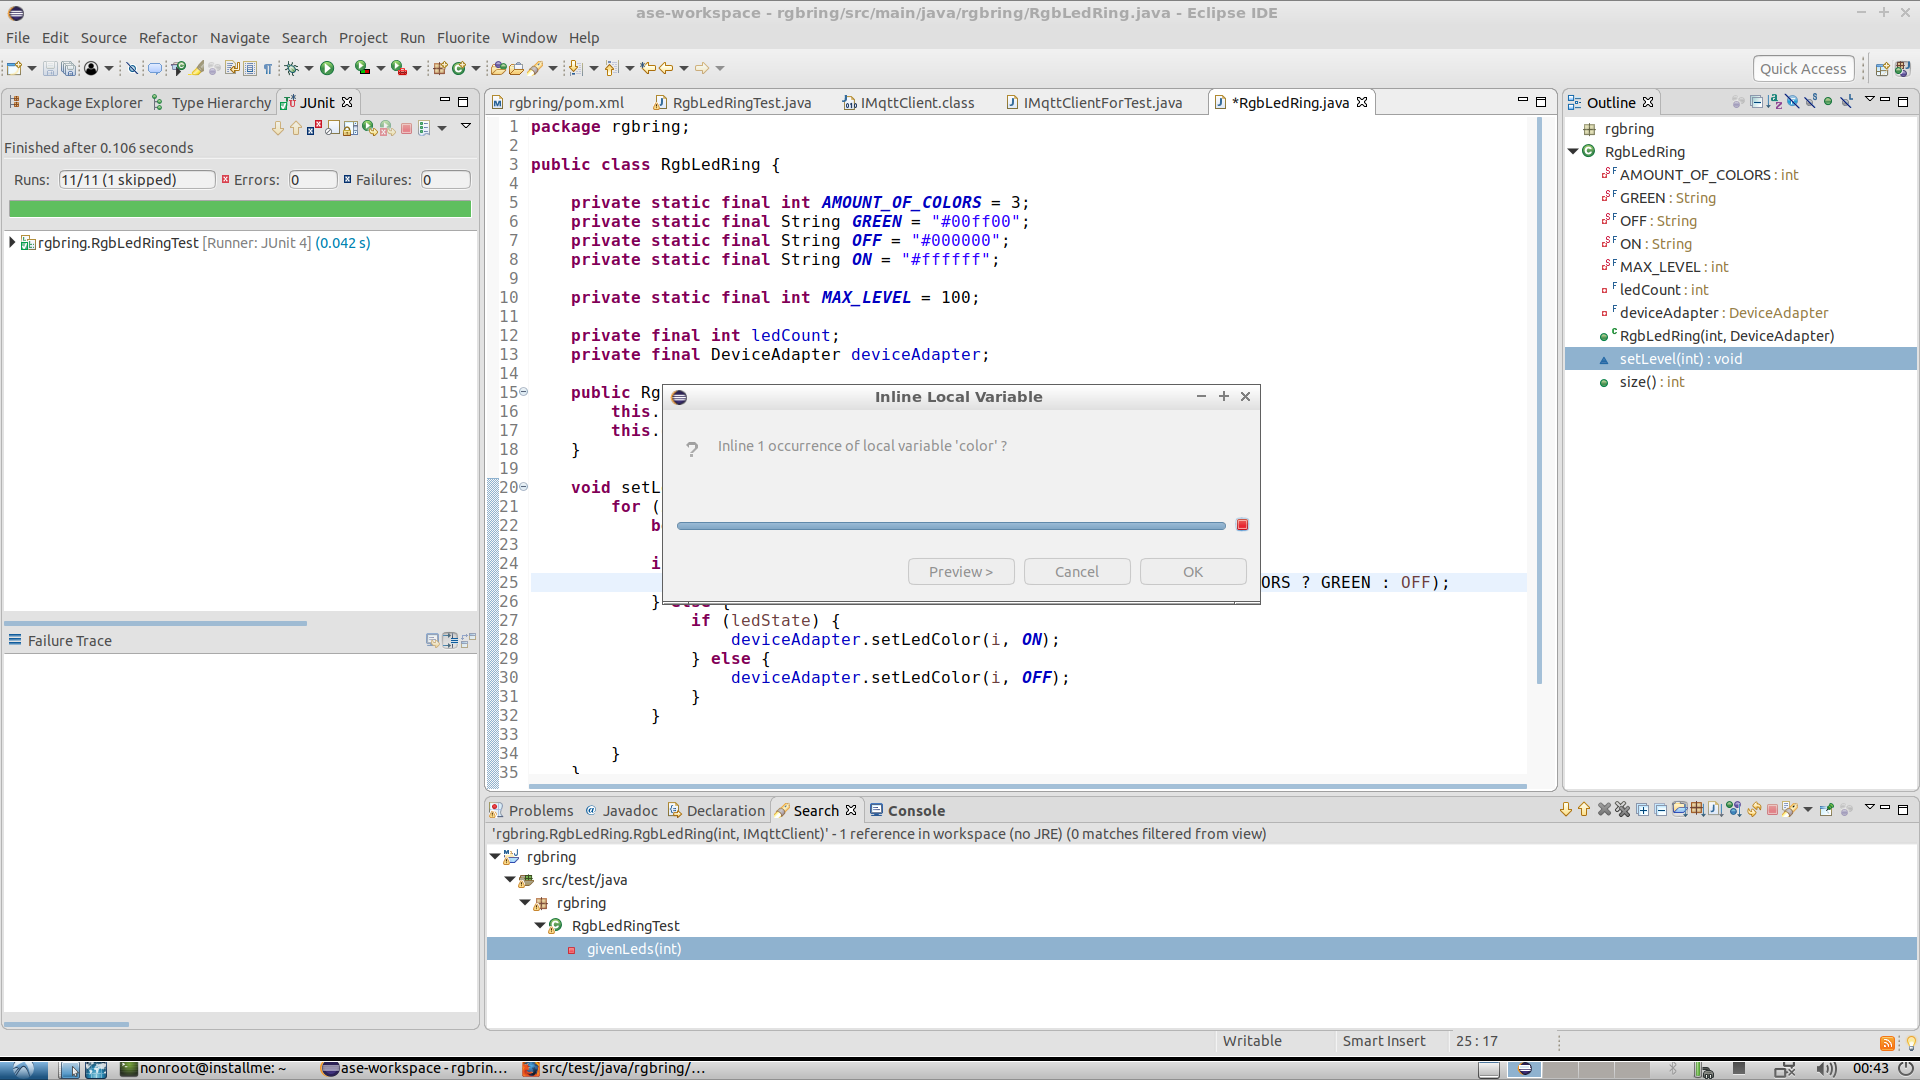
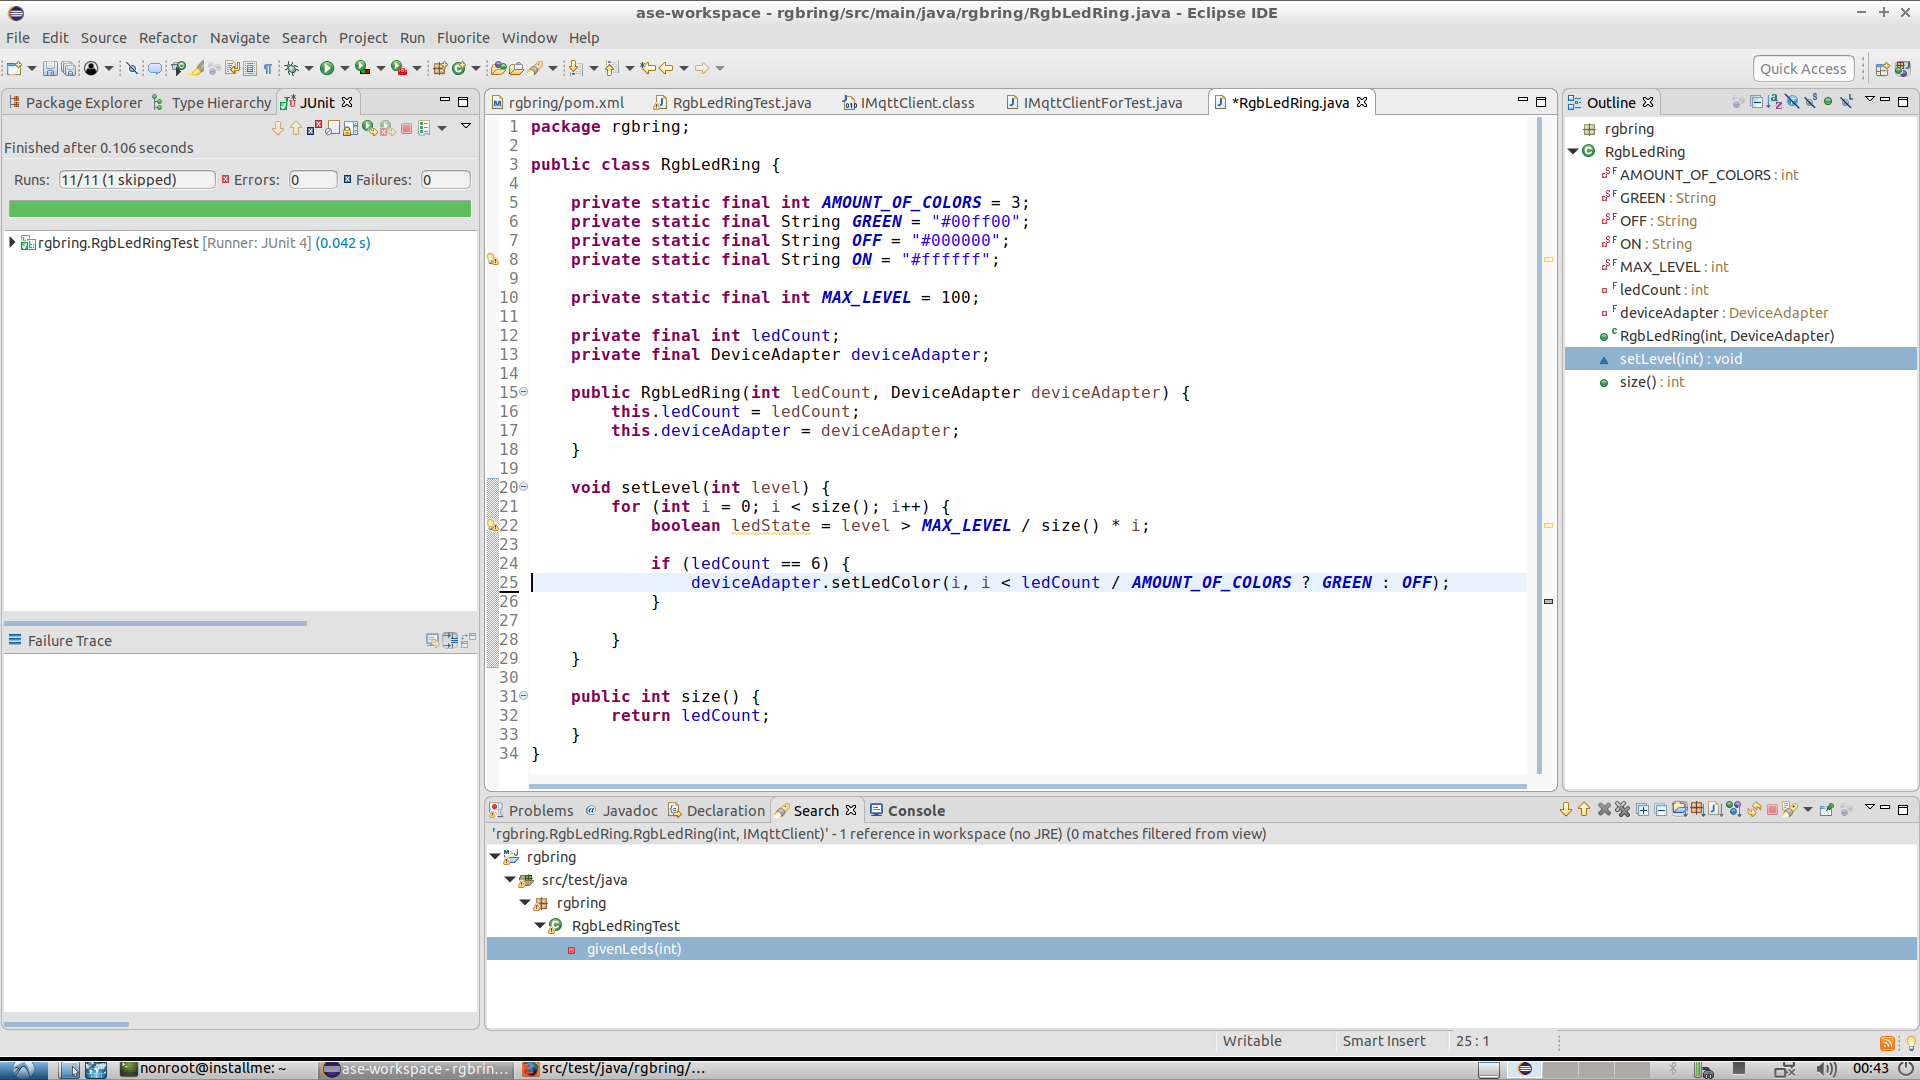
autocommit on change

diff --git a/src/main/java/rgbring/RgbLedRing.java b/src/main/java/rgbring/RgbLedRing.java
@@ -23,12 +23,6 @@ public class RgbLedRing {
 
 			if (ledCount == 6) {
 				deviceAdapter.setLedColor(i, i < ledCount / AMOUNT_OF_COLORS ? GREEN : OFF);
-			} else {
-				if (ledState) {
-					deviceAdapter.setLedColor(i, ON);
-				} else {
-					deviceAdapter.setLedColor(i, OFF);
-				}
 			}
 
 		}
